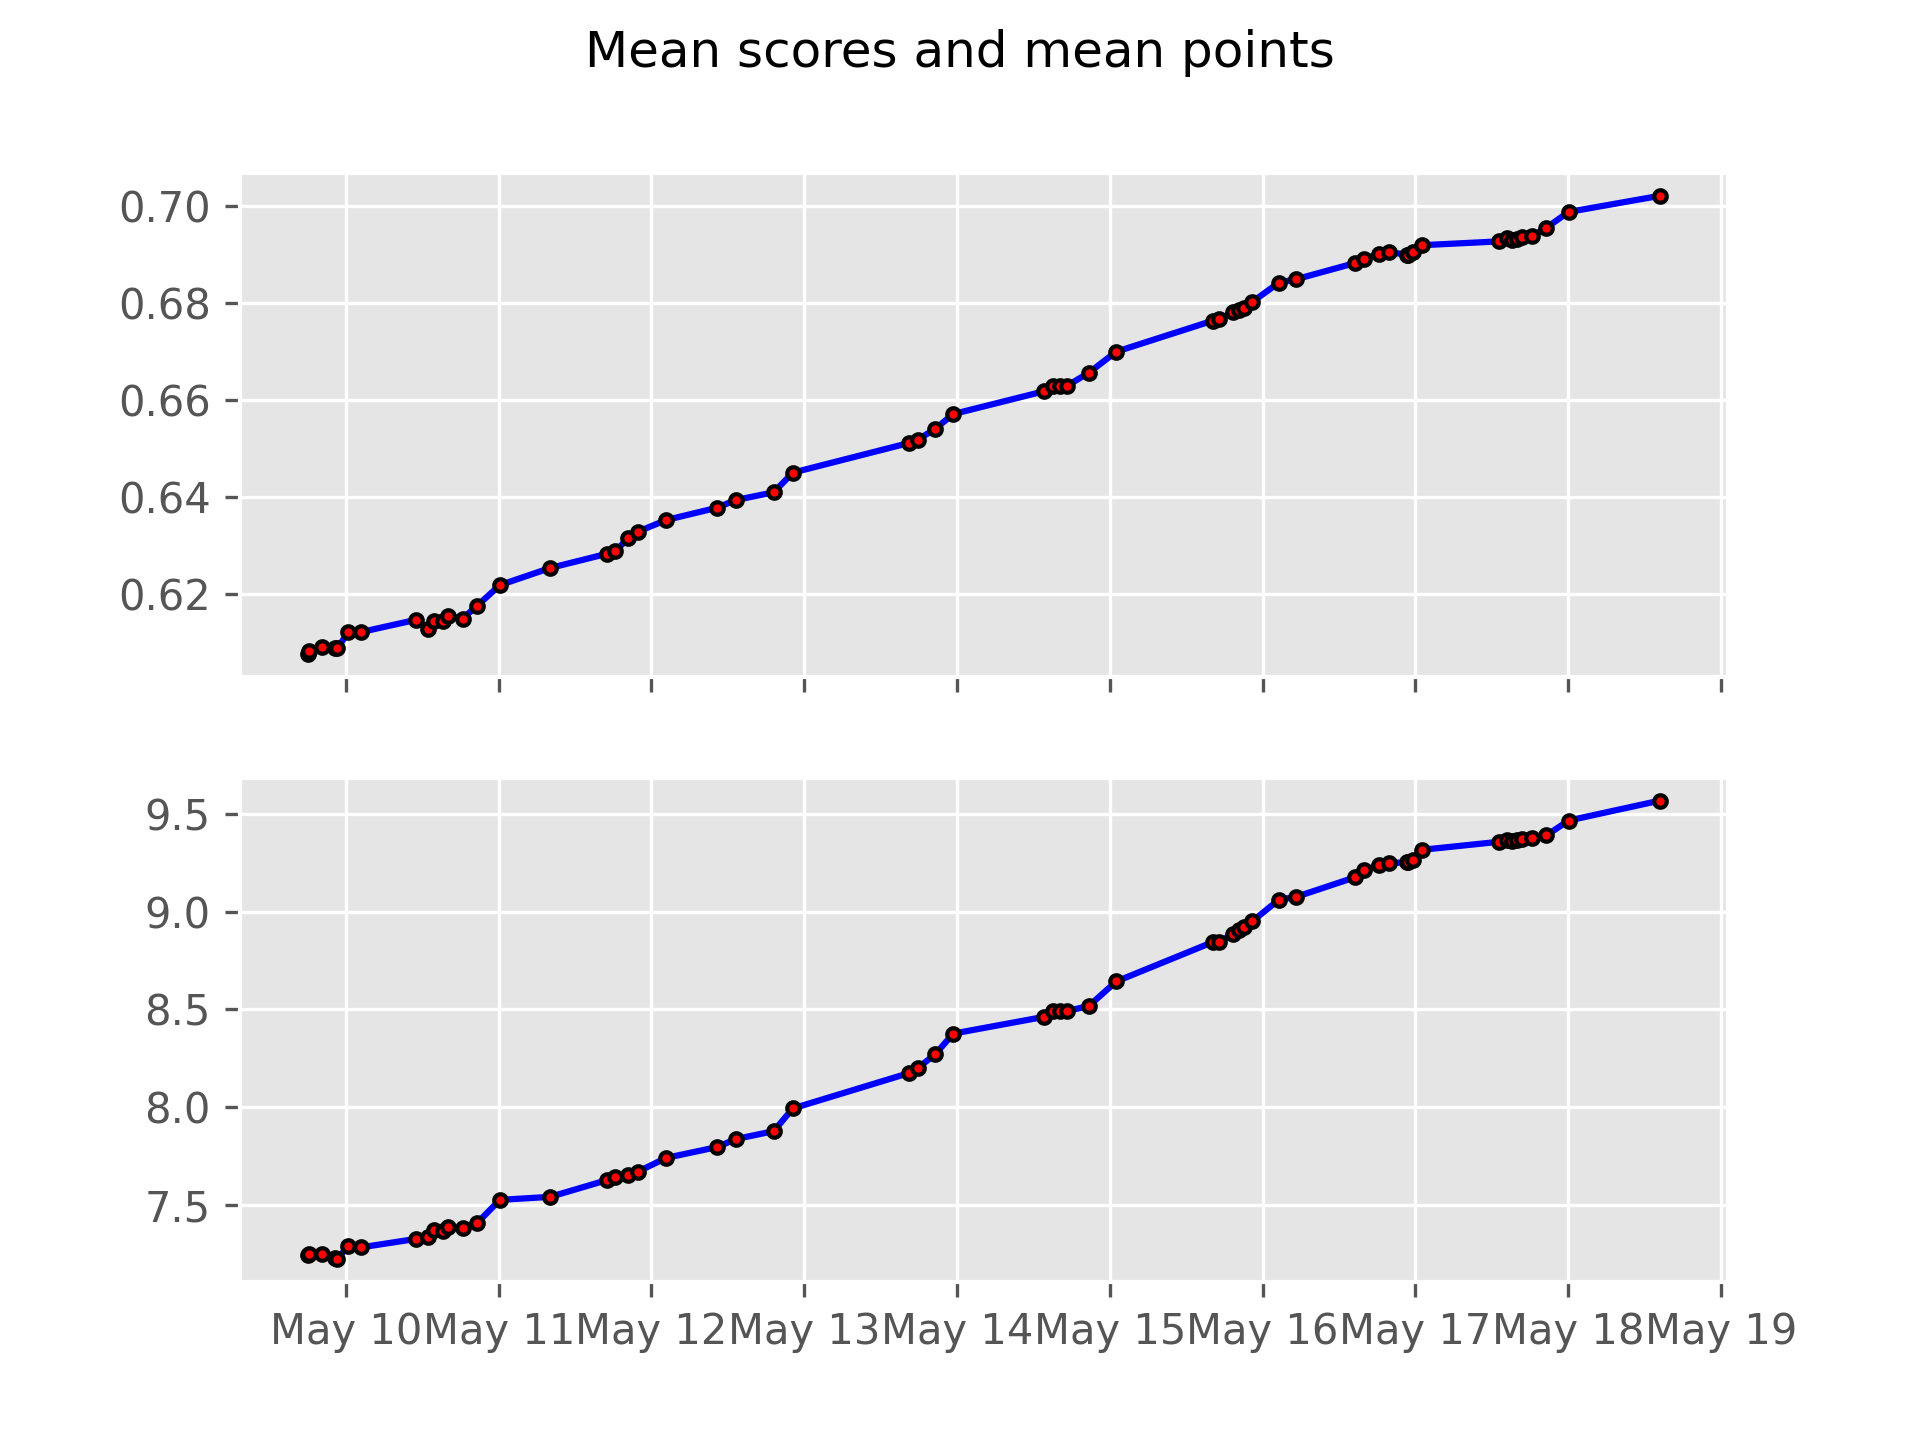
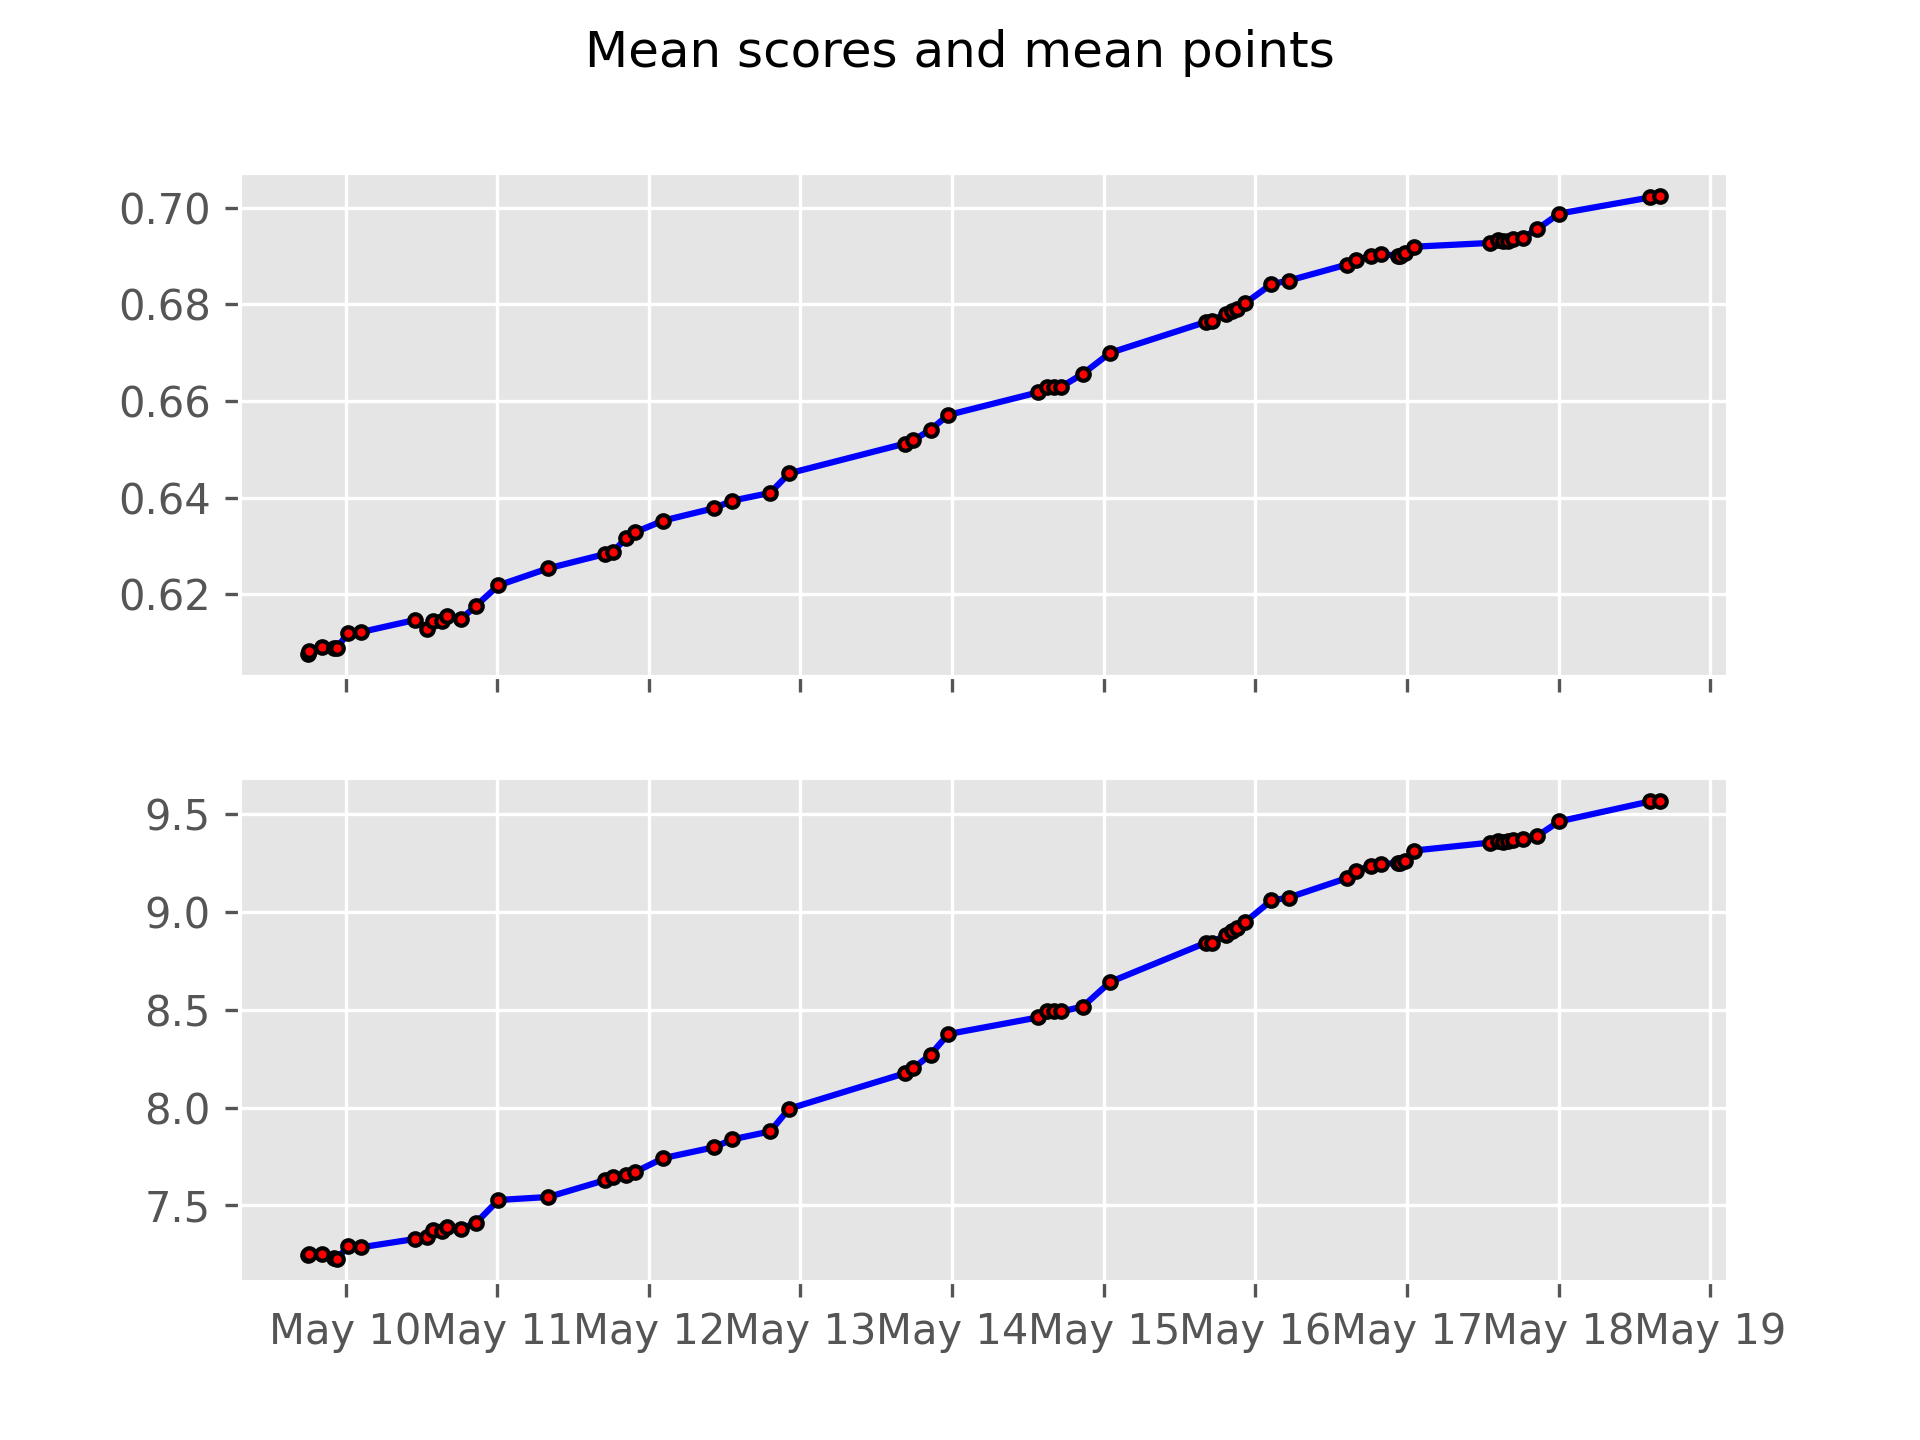
Updated: 2021-05-18 17:57:42

diff --git a/README.md b/README.md
@@ -1,6 +1,6 @@
 # ETC3250 Kaggle score
 
-**Last updated: May 18, 2021 16:07:07**
+**Last updated: May 18, 2021 17:57:42**
 
 ## WARNING: Your final grade is based on your score on the `private leaderboard`. 
 
@@ -8,7 +8,7 @@
 
 ## Public leaderboard
 
-Number of teams: 217
+Number of teams: 218
 
 <img src="data/grading.png" width="100%" height="100%" />
 
@@ -64,29 +64,29 @@ Number of teams: 217
 |42|6766956|sbat0011|17 May 18:36:27|0.76796|11|
 |43|6754493|Po-Yu Huang|16 May 13:21:24|0.76796|11|
 |44|6764152|Pei Ni Lim|16 May 16:26:18|0.76740|11|
-|45|6759088|skhu0008|17 May 15:25:08|0.76740|11|
+|45|6759088|skhu0008|18 May 16:25:21|0.76740|11|
 |46|6755482|dche0021|15 May 18:39:06|0.76570|11|
 |47|6749892|zzz|17 May 23:40:35|0.76513|11|
 |48|6753842|Anqi Luo|17 May 23:35:47|0.76513|11|
-|49|6759838|xwuu0061|17 May 15:05:21|0.76287|11|
-|50|6768072|Jkan0025|18 May 15:47:04|0.76287|11|
-|51|6754021|ntry0001|17 May 14:35:44|0.76230|11|
-|52|6755781|vwid06|17 May 05:08:33|0.76174|11|
-|53|6751334|yzha0275|17 May 20:55:34|0.76117|11|
-|54|6756315|Qin Zhou 29287170|17 May 14:42:15|0.76117|11|
-|55|6768276|Alex Chou|17 May 15:34:23|0.76061|11|
-|56|6759326|Emily Sheehan|18 May 12:45:48|0.76061|11|
-|57|6805182|[Deleted] 54952e69-da1a-4388-9a03-99e918c04f2a|17 May 20:46:16|0.76004|11|
-|58|6749366|xwan0160|18 May 00:36:30|0.75891|11|
-|59|6764345|yliu0320|18 May 01:26:36|0.75778|11|
-|60|6750247|Kevin Tat17|17 May 16:27:17|0.75721|11|
-|61|6749412|Yunpeng Liu|17 May 13:30:49|0.75721|11|
-|62|6815062|Maxime Grosjean|18 May 10:08:28|0.75664|11|
-|63|6754693|xwan0169|14 May 09:20:24|0.75664|11|
-|64|6768279|Thomas Winson|17 May 21:54:59|0.75551|11|
-|65|6753551|dorl0002|18 May 14:45:43|0.75382|11|
+|49|6768279|Thomas Winson|18 May 17:20:32|0.76457|11|
+|50|6759838|xwuu0061|17 May 15:05:21|0.76287|11|
+|51|6768072|Jkan0025|18 May 15:47:04|0.76287|11|
+|52|6754021|ntry0001|18 May 16:14:39|0.76230|11|
+|53|6755781|vwid06|17 May 05:08:33|0.76174|11|
+|54|6751334|yzha0275|17 May 20:55:34|0.76117|11|
+|55|6756315|Qin Zhou 29287170|17 May 14:42:15|0.76117|11|
+|56|6768276|Alex Chou|17 May 15:34:23|0.76061|11|
+|57|6759326|Emily Sheehan|18 May 12:45:48|0.76061|11|
+|58|6805182|[Deleted] 54952e69-da1a-4388-9a03-99e918c04f2a|17 May 20:46:16|0.76004|11|
+|59|6749366|xwan0160|18 May 00:36:30|0.75891|11|
+|60|6764345|yliu0320|18 May 01:26:36|0.75778|11|
+|61|6750247|Kevin Tat17|17 May 16:27:17|0.75721|11|
+|62|6749412|Yunpeng Liu|17 May 13:30:49|0.75721|11|
+|63|6815062|Maxime Grosjean|18 May 10:08:28|0.75664|11|
+|64|6754693|xwan0169|14 May 09:20:24|0.75664|11|
+|65|6753551|dorl0002|18 May 17:27:51|0.75382|11|
 |66|6768666|jham0020|16 May 23:44:06|0.75325|11|
-|67|6750103|heva0001|18 May 15:10:05|0.75268|11|
+|67|6750103|heva0001|18 May 16:42:08|0.75268|11|
 |68|6762119|Evelyn Budhy Wibowo|17 May 22:42:36|0.75268|11|
 |69|6754314|Alexi Tsakis|18 May 13:24:14|0.75099|11|
 |70|6815147|Mathieu Van Der Poel|18 May 09:58:59|0.74985|11|
@@ -104,7 +104,7 @@ Number of teams: 217
 |82|6755109|Dea Avega Editya|17 May 10:44:40|0.74136|11|
 |83|6760740|qwan0060|18 May 10:10:13|0.74080|11|
 |84|6753832|hmaus1|16 May 20:47:42|0.73967|11|
-|85|6749310|rtia0007|18 May 15:15:01|0.73967|11|
+|85|6749310|rtia0007|18 May 17:27:10|0.73967|11|
 |86|6813620|zz2050|18 May 01:55:15|0.73910|11|
 |87|6761498|qche0022|17 May 23:36:57|0.73514|10|
 |88|6766670|rlai0004|18 May 03:06:09|0.73514|10|
@@ -117,103 +117,103 @@ Number of teams: 217
 |95|6749287|rwon0005|16 May 22:14:18|0.73005|10|
 |96|6767433|ang0004|16 May 10:36:26|0.72948|10|
 |97|6760878|Oblong|14 May 09:53:00|0.72891|10|
-|98|6765541|wtan0001|16 May 15:08:01|0.72608|10|
-|99|6750421|sche0149|18 May 14:23:33|0.72608|10|
-|100|6763455|Ziyue Zhang|17 May 17:45:21|0.72552|10|
-|101|6753813|yzha0633|18 May 00:44:09|0.71986|10|
-|102|6749490|fwan0018|18 May 15:36:41|0.71986|10|
-|103|6813666|potterJames|18 May 02:02:35|0.71929|10|
-|104|6754894|dama0007|17 May 10:02:36|0.71929|10|
-|105|6767902|wfer0009|17 May 19:23:16|0.71873|10|
-|106|6754678|Ronghao Zhang|14 May 11:34:12|0.71703|10|
-|107|6749822|John Yan|17 May 23:52:06|0.71533|10|
-|108|6751234|gdav0007|14 May 10:57:28|0.71420|10|
-|109|6751598|hfen27|14 May 13:11:44|0.71420|10|
-|110|6749351|jche0254|18 May 00:31:12|0.71307|10|
-|111|6763958|berob5|18 May 15:32:02|0.71194|10|
-|112|6767603|jfer0020|11 May 19:09:43|0.71080|10|
-|113|6755522|casco2|15 May 12:16:36|0.71024|10|
-|114|6767378|Arzu Khanna|17 May 18:58:23|0.70911|10|
-|115|6766000|Langtian Cheng|17 May 23:51:17|0.70628|10|
-|116|6762123|Siddhant Tirodkar|18 May 01:19:50|0.70628|10|
-|117|6762269|Priya Dingorkar|18 May 00:34:34|0.70628|10|
-|118|6759596|monash_jpea0010|18 May 10:02:37|0.70628|10|
-|119|6761828|Ying Zou95|17 May 20:39:34|0.70514|10|
-|120|6760555|zzha0230|16 May 22:41:15|0.70401|10|
-|121|6759061|Abin John|17 May 19:41:57|0.70175|10|
-|122|6762592|xyan0048|16 May 17:47:05|0.70062|10|
-|123|6756942|jtho0048|15 May 19:58:12|0.70005|10|
-|124|6765299|zyliu16|17 May 23:52:38|0.69552|10|
-|125|6768046|asei0003|17 May 22:16:10|0.69439|10|
-|126|6782531|jraw0002|16 May 17:04:01|0.68817|10|
-|127|6760529|maam0001|15 May 18:33:08|0.68817|10|
-|128|6750607|hngo0005|17 May 22:15:23|0.68647|10|
-|129|6762192|abab0012|18 May 12:35:53|0.68647|10|
-|130|6753792|Angelina Atanassova|18 May 15:53:39|0.68534|10|
-|131|6763905|xliu0026|18 May 11:17:46|0.68081|10|
-|132|6753670|Tran Thanh Han Ha|09 May 18:38:25|0.67798|10|
-|133|6761203|ajai0024|18 May 15:22:46|0.67741|10|
-|134|6761343|dgar0010|17 May 12:12:09|0.67741|10|
-|135|6765312|mqas0003|17 May 22:34:14|0.67685|9|
-|136|6807769|stupid assignment|17 May 18:42:10|0.67685|9|
-|137|6756086|akha0059|17 May 23:06:57|0.67232|9|
-|138|6761842|mort0001|18 May 02:55:35|0.67119|9|
-|139|6753817|JiaPeng0106|10 May 13:28:44|0.66893|9|
-|140|6812044|Alexandra_Cqn|17 May 21:27:06|0.66610|9|
-|141|6758921|Zhijun Li/zlii0231|17 May 14:12:25|0.66157|9|
-|142|6775741|blen0004|18 May 15:42:21|0.66100|8|
-|143|6765060|khyd0001|18 May 09:56:48|0.66044|8|
-|144|6768582|ague0004|18 May 11:19:10|0.66044|8|
-|145|6765741|bwen0003|14 May 01:20:38|0.65817|8|
-|146|6767860|ylii0273|17 May 18:51:23|0.65647|8|
-|147|6765463|lwan0125|17 May 22:06:58|0.65647|8|
-|148|6765323|alim0045|18 May 16:05:02|0.65591|<=7|
-|149|6800064|Thuy Tran LINH|15 May 16:13:51|0.65534|<=7|
-|150|6763613|ofon0002|18 May 11:47:14|0.65251|<=7|
-|151|6763638|heva0003|17 May 17:32:14|0.65025|<=7|
-|152|6805744|Gregory Constantinou|17 May 22:30:54|0.64912|<=7|
-|153|6764503|Yu Zhou|16 May 00:00:03|0.64516|<=7|
-|154|6766440|Chenjie Gong|17 May 12:51:02|0.64516|<=7|
-|155|6761697|azad0001|17 May 15:15:21|0.64289|<=7|
-|156|6757039|phun0001|18 May 07:33:19|0.64176|<=7|
-|157|6756441|jwij0001|17 May 18:30:18|0.64119|<=7|
-|158|6759274|Dwayne Pinto|18 May 13:30:48|0.64119|<=7|
-|159|6770339|Jonathan Alexandro|17 May 23:21:27|0.63837|<=7|
-|160|6808040|cnm666|17 May 18:40:51|0.63723|<=7|
-|161|6768141|Don_Eggsaladsanga|18 May 12:32:30|0.63667|<=7|
-|162|6760382|jlee0179|16 May 13:31:23|0.63554|<=7|
-|163|6753957|Matthew Willaton|18 May 10:15:15|0.62988|<=7|
-|164|6812449|joaootaviors|17 May 23:32:52|0.62931|<=7|
-|165|6754085|Tomer Fridland|18 May 11:58:20|0.62139|<=7|
-|166|6738627|predictions_2021-05-04.csv|04 May 17:42:25|0.61516|<=7|
-|167|6750168|Ruimin Lin|17 May 17:17:21|0.61516|<=7|
-|168|6750648|[Deleted] a1fcae29-177c-495d-be3e-ecb1d2e418e1|06 May 20:32:47|0.61516|<=7|
-|169|6751310|Cpen0009|16 May 01:16:05|0.61516|<=7|
-|170|6753687|Juliette101|17 May 19:33:02|0.61516|<=7|
-|171|6754262|Namrata Goel|07 May 13:16:59|0.61516|<=7|
-|172|6754439|cyee0011|18 May 13:45:37|0.61516|<=7|
-|173|6754610|dvek0001|17 May 16:49:03|0.61516|<=7|
-|174|6754890|ctin0006|07 May 17:54:53|0.61516|<=7|
-|175|6756637|lqia0006|17 May 22:50:01|0.61516|<=7|
-|176|6758582|Vinny Vu|18 May 13:42:06|0.61516|<=7|
-|177|6758766|hhen0005|18 May 00:04:42|0.61516|<=7|
-|178|6758855|MKitchener_Monash|08 May 11:34:04|0.61516|<=7|
-|179|6759272|Suyue|08 May 13:38:52|0.61516|<=7|
-|180|6760487|Junze Zeng|08 May 18:39:04|0.61516|<=7|
-|181|6760974|ZipingLeow|13 May 02:51:53|0.61516|<=7|
-|182|6761427|byeo0005|17 May 18:24:14|0.61516|<=7|
-|183|6761422|Wenxuan Gong|08 May 22:16:50|0.61516|<=7|
-|184|6749288|dpha0015|16 May 23:39:15|0.61516|<=7|
-|185|6762642|rals0003|15 May 23:50:53|0.61516|<=7|
-|186|6763027|panagiotis stylianos|09 May 07:03:18|0.61516|<=7|
-|187|6760102|Yuheng Cui|09 May 13:49:20|0.61516|<=7|
-|188|6764303|fpso0001|18 May 14:49:07|0.61516|<=7|
-|189|6756077|walh0002|16 May 17:38:54|0.61516|<=7|
+|98|6763613|ofon0002|18 May 17:17:10|0.72722|10|
+|99|6765541|wtan0001|16 May 15:08:01|0.72608|10|
+|100|6750421|sche0149|18 May 14:23:33|0.72608|10|
+|101|6763455|Ziyue Zhang|17 May 17:45:21|0.72552|10|
+|102|6753813|yzha0633|18 May 16:13:29|0.71986|10|
+|103|6749490|fwan0018|18 May 15:36:41|0.71986|10|
+|104|6813666|potterJames|18 May 02:02:35|0.71929|10|
+|105|6754894|dama0007|17 May 10:02:36|0.71929|10|
+|106|6767902|wfer0009|17 May 19:23:16|0.71873|10|
+|107|6754678|Ronghao Zhang|14 May 11:34:12|0.71703|10|
+|108|6758921|Zhijun Li/zlii0231|18 May 17:53:30|0.71703|10|
+|109|6749822|John Yan|17 May 23:52:06|0.71533|10|
+|110|6751234|gdav0007|14 May 10:57:28|0.71420|10|
+|111|6751598|hfen27|14 May 13:11:44|0.71420|10|
+|112|6749351|jche0254|18 May 00:31:12|0.71307|10|
+|113|6763958|berob5|18 May 15:32:02|0.71194|10|
+|114|6767603|jfer0020|11 May 19:09:43|0.71080|10|
+|115|6755522|casco2|15 May 12:16:36|0.71024|10|
+|116|6767378|Arzu Khanna|17 May 18:58:23|0.70911|10|
+|117|6762269|Priya Dingorkar|18 May 16:28:29|0.70797|10|
+|118|6766000|Langtian Cheng|17 May 23:51:17|0.70628|10|
+|119|6762123|Siddhant Tirodkar|18 May 01:19:50|0.70628|10|
+|120|6759596|monash_jpea0010|18 May 10:02:37|0.70628|10|
+|121|6761828|Ying Zou95|17 May 20:39:34|0.70514|10|
+|122|6760555|zzha0230|16 May 22:41:15|0.70401|10|
+|123|6759061|Abin John|17 May 19:41:57|0.70175|10|
+|124|6762592|xyan0048|16 May 17:47:05|0.70062|10|
+|125|6756942|jtho0048|15 May 19:58:12|0.70005|10|
+|126|6765299|zyliu16|17 May 23:52:38|0.69552|10|
+|127|6768046|asei0003|17 May 22:16:10|0.69439|10|
+|128|6782531|jraw0002|16 May 17:04:01|0.68817|10|
+|129|6760529|maam0001|15 May 18:33:08|0.68817|10|
+|130|6750607|hngo0005|17 May 22:15:23|0.68647|10|
+|131|6762192|abab0012|18 May 12:35:53|0.68647|10|
+|132|6753792|Angelina Atanassova|18 May 15:53:39|0.68534|10|
+|133|6763905|xliu0026|18 May 11:17:46|0.68081|10|
+|134|6753670|Tran Thanh Han Ha|09 May 18:38:25|0.67798|10|
+|135|6761203|ajai0024|18 May 16:23:14|0.67741|10|
+|136|6761343|dgar0010|18 May 17:03:41|0.67741|10|
+|137|6765312|mqas0003|17 May 22:34:14|0.67685|9|
+|138|6807769|stupid assignment|17 May 18:42:10|0.67685|9|
+|139|6756086|akha0059|17 May 23:06:57|0.67232|9|
+|140|6761842|mort0001|18 May 02:55:35|0.67119|9|
+|141|6753817|JiaPeng0106|10 May 13:28:44|0.66893|9|
+|142|6812044|Alexandra_Cqn|17 May 21:27:06|0.66610|9|
+|143|6775741|blen0004|18 May 15:42:21|0.66100|8|
+|144|6765060|khyd0001|18 May 09:56:48|0.66044|8|
+|145|6768582|ague0004|18 May 17:47:53|0.66044|8|
+|146|6765741|bwen0003|14 May 01:20:38|0.65817|8|
+|147|6767860|ylii0273|18 May 16:34:50|0.65647|8|
+|148|6765463|lwan0125|17 May 22:06:58|0.65647|8|
+|149|6765323|alim0045|18 May 16:05:02|0.65591|<=7|
+|150|6756077|walh0002|18 May 17:21:50|0.65591|<=7|
+|151|6800064|Thuy Tran LINH|15 May 16:13:51|0.65534|<=7|
+|152|6763638|heva0003|17 May 17:32:14|0.65025|<=7|
+|153|6805744|Gregory Constantinou|17 May 22:30:54|0.64912|<=7|
+|154|6764503|Yu Zhou|16 May 00:00:03|0.64516|<=7|
+|155|6766440|Chenjie Gong|17 May 12:51:02|0.64516|<=7|
+|156|6761697|azad0001|17 May 15:15:21|0.64289|<=7|
+|157|6757039|phun0001|18 May 07:33:19|0.64176|<=7|
+|158|6756441|jwij0001|18 May 16:43:22|0.64119|<=7|
+|159|6759274|Dwayne Pinto|18 May 16:51:37|0.64119|<=7|
+|160|6770339|Jonathan Alexandro|17 May 23:21:27|0.63837|<=7|
+|161|6808040|cnm666|17 May 18:40:51|0.63723|<=7|
+|162|6768141|Don_Eggsaladsanga|18 May 12:32:30|0.63667|<=7|
+|163|6760382|jlee0179|16 May 13:31:23|0.63554|<=7|
+|164|6753957|Matthew Willaton|18 May 10:15:15|0.62988|<=7|
+|165|6812449|joaootaviors|17 May 23:32:52|0.62931|<=7|
+|166|6754085|Tomer Fridland|18 May 11:58:20|0.62139|<=7|
+|167|6738627|predictions_2021-05-04.csv|04 May 17:42:25|0.61516|<=7|
+|168|6750168|Ruimin Lin|17 May 17:17:21|0.61516|<=7|
+|169|6750648|[Deleted] a1fcae29-177c-495d-be3e-ecb1d2e418e1|06 May 20:32:47|0.61516|<=7|
+|170|6751310|Cpen0009|16 May 01:16:05|0.61516|<=7|
+|171|6753687|Juliette101|17 May 19:33:02|0.61516|<=7|
+|172|6754262|Namrata Goel|07 May 13:16:59|0.61516|<=7|
+|173|6754439|cyee0011|18 May 13:45:37|0.61516|<=7|
+|174|6754610|dvek0001|17 May 16:49:03|0.61516|<=7|
+|175|6754890|ctin0006|07 May 17:54:53|0.61516|<=7|
+|176|6756637|lqia0006|17 May 22:50:01|0.61516|<=7|
+|177|6758582|Vinny Vu|18 May 13:42:06|0.61516|<=7|
+|178|6758766|hhen0005|18 May 00:04:42|0.61516|<=7|
+|179|6758855|MKitchener_Monash|08 May 11:34:04|0.61516|<=7|
+|180|6759272|Suyue|08 May 13:38:52|0.61516|<=7|
+|181|6760487|Junze Zeng|18 May 17:37:46|0.61516|<=7|
+|182|6760974|ZipingLeow|13 May 02:51:53|0.61516|<=7|
+|183|6761427|byeo0005|17 May 18:24:14|0.61516|<=7|
+|184|6761422|Wenxuan Gong|08 May 22:16:50|0.61516|<=7|
+|185|6749288|dpha0015|16 May 23:39:15|0.61516|<=7|
+|186|6762642|rals0003|15 May 23:50:53|0.61516|<=7|
+|187|6763027|panagiotis stylianos|09 May 07:03:18|0.61516|<=7|
+|188|6760102|Yuheng Cui|09 May 13:49:20|0.61516|<=7|
+|189|6764303|fpso0001|18 May 14:49:07|0.61516|<=7|
 |190|6765399|ymia21|18 May 13:46:30|0.61516|<=7|
 |191|6765339|jgra0012|09 May 22:08:13|0.61516|<=7|
 |192|6766356|shua0076|10 May 01:50:18|0.61516|<=7|
 |193|6766419|Tong Qiu|10 May 02:16:31|0.61516|<=7|
-|194|6766065|jluo0015|18 May 04:02:19|0.61516|<=7|
+|194|6766065|jluo0015|18 May 17:44:35|0.61516|<=7|
 |195|6766581|pjiw0001|10 May 03:10:23|0.61516|<=7|
 |196|6749849|ymaa0063|10 May 04:25:13|0.61516|<=7|
 |197|6754254|uwas0001|13 May 09:38:21|0.61516|<=7|
@@ -230,10 +230,11 @@ Number of teams: 217
 |208|6769593|Shu To Yeung|18 May 02:31:28|0.61516|<=7|
 |209|6749474|Thomas Crowe|17 May 21:33:16|0.61516|<=7|
 |210|6770619|MingKaiToh|18 May 06:28:24|0.61516|<=7|
-|211|6760476|ang0005|18 May 14:13:09|0.61516|<=7|
+|211|6760476|ang0005|18 May 17:27:36|0.61516|<=7|
 |212|6794555|Ketan Kabu|17 May 14:57:14|0.61516|<=7|
 |213|6812132|Jun Soh|17 May 22:09:24|0.61516|<=7|
 |214|6814934|Jessica La|18 May 08:19:59|0.61516|<=7|
-|215|6753562|Paul Larmuseau|10 May 19:34:02|0.49405|<=7|
-|216|6768979|Jenny|10 May 17:15:47|0.48217|<=7|
-|217|6760243|akha0058|08 May 17:44:11|0.47651|<=7|
+|215|6817089|QAanyh123|18 May 17:05:31|0.51216|<=7|
+|216|6753562|Paul Larmuseau|10 May 19:34:02|0.49405|<=7|
+|217|6768979|Jenny|10 May 17:15:47|0.48217|<=7|
+|218|6760243|akha0058|08 May 17:44:11|0.47651|<=7|
